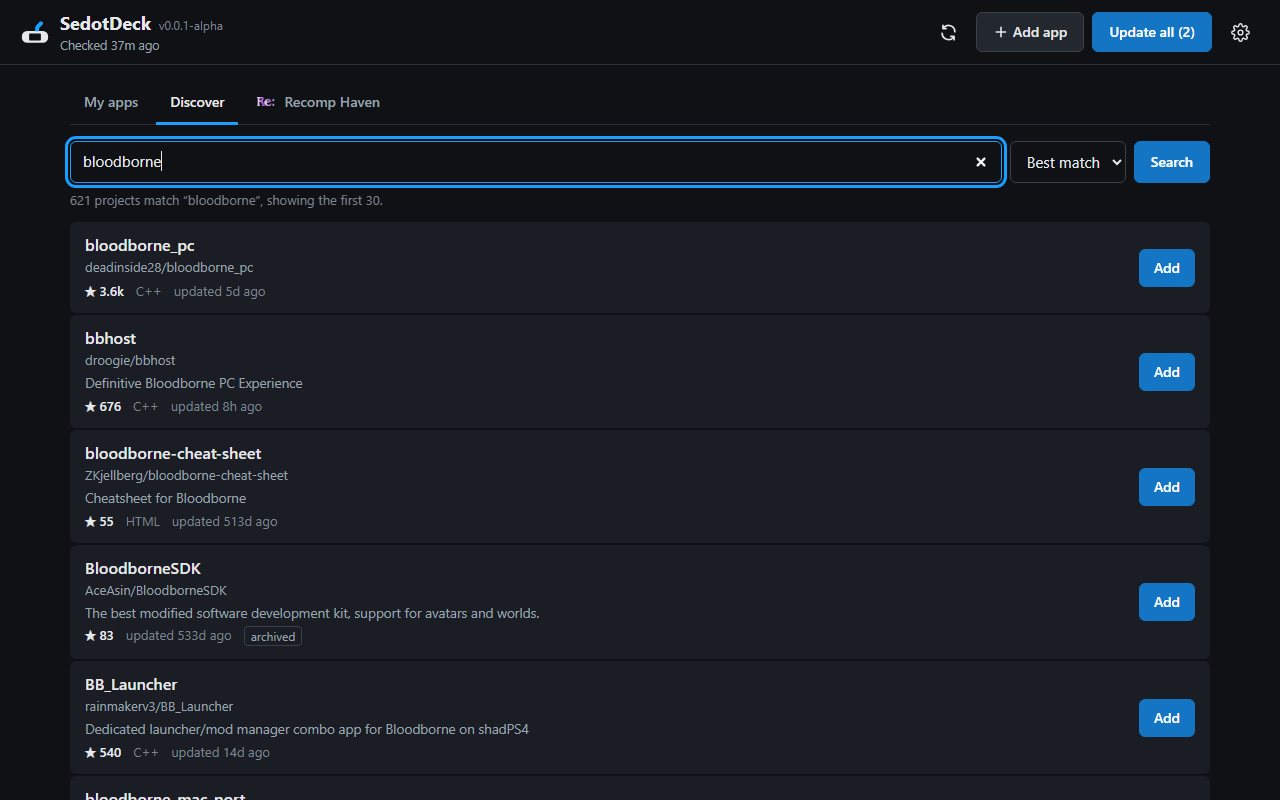
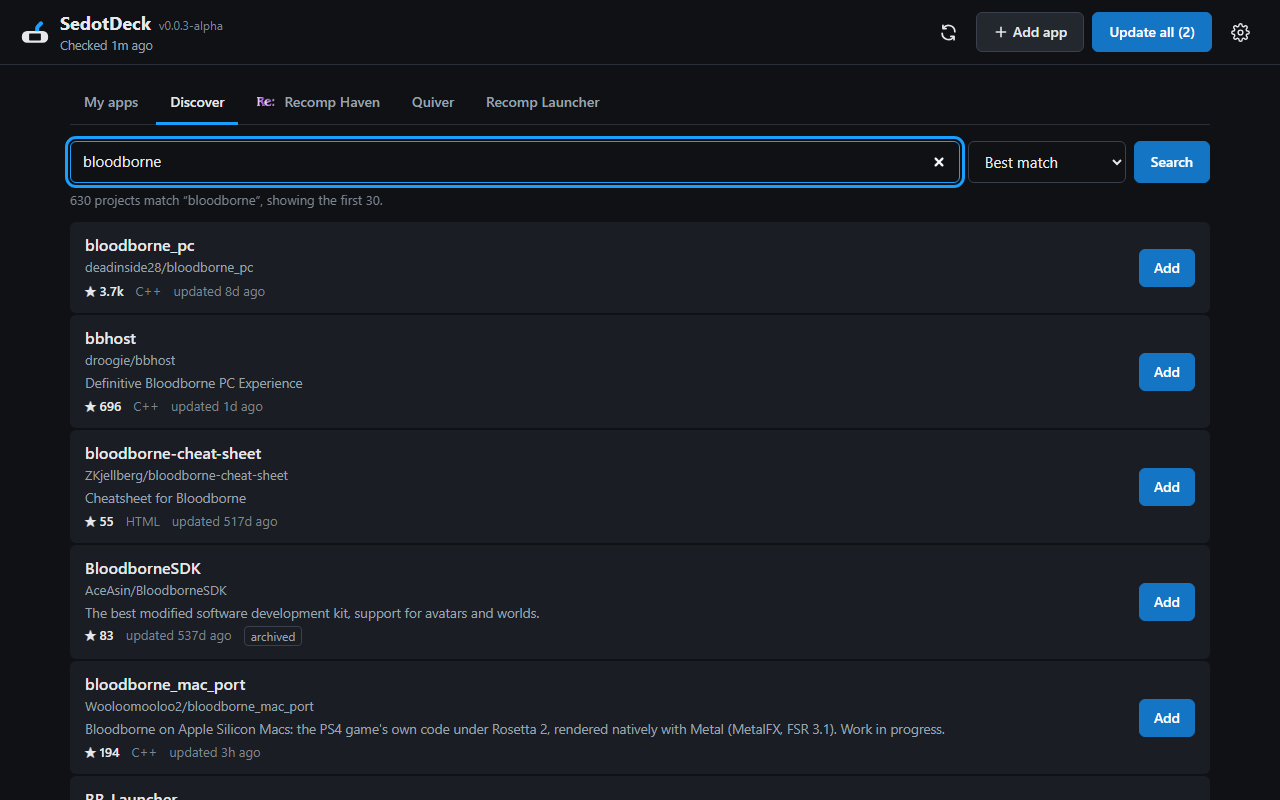
README: new screenshots for 0.0.3-alpha, with Quiver and Recomp Launcher

diff --git a/README.md b/README.md
@@ -137,7 +137,7 @@ Without a GitHub token, GitHub allows 10 searches a minute.
 
 [Recomp Haven](https://recomphaven.com/) tracks every game recompilation and PC port. SedotDeck's **Recomp Haven** tab lists the ones with a Linux release on GitHub, using the site's own logo, box art and tiers.
 
-<img src="docs/screenshots/recomp-haven.png" alt="Recomp Haven tab: recomps with box art, tier, system and an Add button, with filters for system and tier" width="640">
+<img src="docs/screenshots/recomp-haven.png" alt="Recomp Haven tab: recomps with box art, tier, system, GitHub stars and an Add button, with filters for system and tier" width="640">
 
 - Search by game or project, filter by **system** (console) or tier, or show only the ones marked **Steam Deck**.
 - Sort by tier, system (grouped under a heading per console), stars, name or newest release. Each card shows the project's GitHub stars.
@@ -148,14 +148,18 @@ Without a GitHub token, GitHub allows 10 searches a minute.
 
 [quiverlauncher.com](https://quiverlauncher.com/) is the community catalog behind [Quiver Launcher](https://github.com/tgeorgiadis/quiver-launcher). SedotDeck's **Quiver** tab reads its public API and lists the apps with a Linux release that Quiver has verified, on GitHub or GitLab. SedotDeck isn't part of Quiver, and it doesn't use Quiver's name or logo for itself.
 
+<img src="docs/screenshots/quiver.png" alt="Quiver tab: ports with box art, system, version and AI use, player reports and an Add button, with filters for system and AI use" width="640">
+
 - Search by game, project or developer, filter by **system** or by how much **AI** went into the project (as the catalog labels it: no AI, AI-assisted or AI-generated).
-- Sort by newly added, newest release, most recommended, most stars, system or name. Player reports from the site (how many recommend it or report it broken) show on each card, and each card shows GitHub stars.
+- Sort by newly added, newest release, most recommended, most stars, system or name. Player reports from the site (how many recommend it or report it broken) show on each card, with GitHub stars when the Recomp Haven or Recomp Launcher list (already saved) knows the project.
 - **Add** puts it in **My apps**; **Details ↗** opens its page on quiverlauncher.com.
 - Every port needs your own copy of the game.
 
 ## Recomp Launcher
 
 [recomplauncher.com](https://recomplauncher.com/) is the catalog behind RecompLauncher. SedotDeck's **Recomp Launcher** tab reads its public catalog and lists the PC recomps with a Linux release on GitHub. SedotDeck isn't part of RecompLauncher, and it doesn't use its logo.
+
+<img src="docs/screenshots/recomp-launcher.png" alt="Recomp Launcher tab: PC recomps with box art, system, original game, version, GitHub stars and an Add button, sorted by most stars" width="640">
 
 - Search by game, project or developer, or filter by **system**. Every recomp needs your own copy of the game.
 - Sort by most stars, newest release, newly added, system or name. Each card shows GitHub stars.
